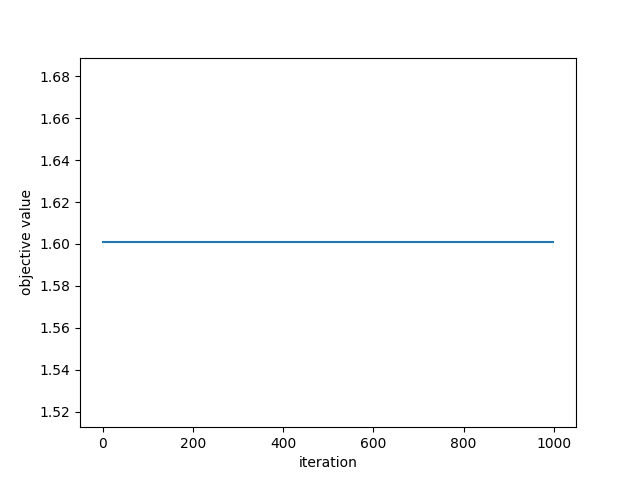
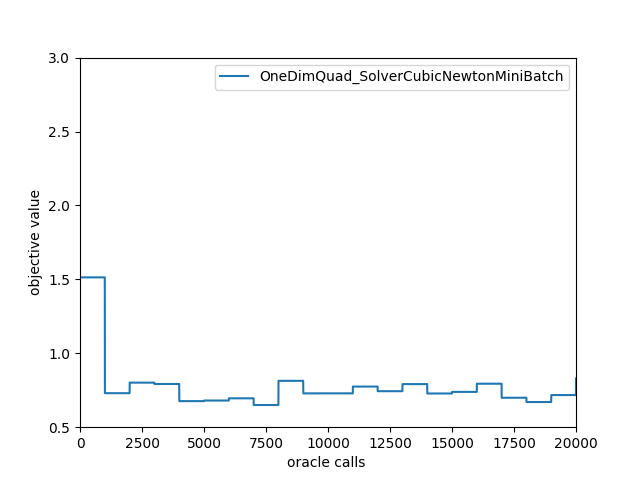
add experiments

diff --git a/optimization/TestMain.py b/optimization/TestMain.py
@@ -20,24 +20,39 @@ from optimization.solvers.SolverStorm import SolverStorm
 from optimization.solvers.SolverCubicNewtonMiniBatch import SolverCubicNewtonMiniBatch
 from optimization.solvers.SubProblemCubicNewton import SubProblemCubicNewton
 
+plot_names = []
+
+
+def plot_log(objective_values, plot_name):
+    if not cumulative:
+        plt.clf()
+    else:
+        plot_names.append(plot_name)
+
+    plt.plot(range(len(objective_values)),
+             objective_values)
+
+    plt.xlabel('oracle calls ')
+    plt.ylabel('objective value')
+    plt.ylim([low_bound_y, high_bound_y])
+    plt.xlim([low_bound_x, high_bound_x])
+    plt.legend([plot_name], loc='upper right')
+    if not cumulative:
+        plt.savefig("plots/" + plot_name)
+
 
 def test_01():
     print("running test 1...")
 
-    gd_solver = SubProblemCubicNewton(max_iter=1000, c_prime=0.0001)
+    gd_solver = SubProblemCubicNewton(max_iter=15, c_prime=1)
     oracle = MeanOracle(objective_function=OneDimQuad(), )
     ms = SolverCubicNewtonMiniBatch(sub_solver=gd_solver, oracle=oracle,
-                                    max_iter=2000, ro=0.0001, l=4, epsilon=1e-5, n1=1000, n2=1000)
-    thetas= ms.run(np.random.RandomState(seed=42).rand(1))
-    objective_values=oracle.objective_values
+                                    max_iter=2000, ro=0.1, l=2, epsilon=1e-4, n1=500, n2=500)
+    thetas = ms.run(np.random.RandomState(seed=42).rand(1))
     # plot the objective value list
-    plt.plot(range(len(objective_values)),
-             objective_values)
-    plt.xlabel('iteration')
-    plt.ylabel('objective value')
-    # plt.show()
-    plt.savefig("plots/OneDimQuad_SolverCubicNewtonMiniBatch")
-    print("best parameters",thetas ,'\n')
+    plot_log(oracle.objective_values, "OneDimQuad_SolverCubicNewtonMiniBatch")
+    print("best parameters", thetas, '\n')
+
 
 def test_02():
     print("running test 2...")
@@ -46,44 +61,26 @@ def test_02():
     oracle = MeanOracle(objective_function=ThreeDimQuad(), )
     ms = SolverCubicNewtonMiniBatch(sub_solver=gd_solver, oracle=oracle,
                                     max_iter=2000, ro=0.001, l=4, epsilon=1e-5, n1=10000, n2=10000)
-    objective_values=oracle.objective_values
+    objective_values = oracle.objective_values
 
-    print("best parameters", ms.run(np.random.RandomState(seed=42).rand(3)),'\n')
+    print("best parameters", ms.run(np.random.RandomState(seed=42).rand(3)), '\n')
 
 
 def test_03():
     print("running test 3...")
-    oracle = MeanOracle(objective_function=OneDimQuad(),)
-    ms = SolverSGD(oracle=oracle, max_iter=9000,  n1=1)
+    oracle = MeanOracle(objective_function=OneDimQuad(), )
+    ms = SolverSGD(oracle=oracle, max_iter=100000, n1=1)
     thetas = ms.run(np.random.RandomState(seed=45).rand(1))
-    objective_values=oracle.objective_values
-
-    # plot the objective value list
-    plt.clf()
-    plt.plot(1e-6 * np.array(range(len(objective_values[5:]))),
-             objective_values[5:])
-    plt.xlabel('oracle calls (1e6)')
-    plt.ylabel('objective value')
-    plt.legend(['Storm', ], loc='upper right')
-    plt.savefig("plots/OneDimQuad_SolverSGD")
+    plot_log(oracle.objective_values, "OneDimQuad_SolverSGD")
     print("best parameters", thetas, '\n')
 
 
 def test_04():
     print("running test 4...")
-    oracle = StormOracle(objective_function=OneDimQuad(), k=1e-2, c_factor=100,)
-    ms = SolverStorm(oracle=oracle, max_iter=9000, )
+    oracle = StormOracle(objective_function=OneDimQuad(), k=1e-1, c_factor=100, )
+    ms = SolverStorm(oracle=oracle, max_iter=100000, )
     thetas = ms.run(np.random.RandomState(seed=45).rand(1))
-    objective_values=oracle.objective_values
-
-    # plot the objective value list
-    plt.clf()
-    plt.plot(1e-6 * np.array(range(len(objective_values[5:]))),
-             objective_values[5:])
-    plt.xlabel('oracle calls (1e6)')
-    plt.ylabel('objective value')
-    # plt.legend(['Storm', ], loc='upper right')
-    plt.savefig("plots/OneDimQuad_SolverStorm")
+    plot_log(oracle.objective_values, "OneDimQuad_SolverStorm")
     print("best parameters", thetas, '\n')
 
 
@@ -91,62 +88,54 @@ def test_05():
     print("running test 5...")
 
     gd_solver = SubProblemCubicNewton(max_iter=10, c_prime=0.1)
-    oracle = NormalNoiseOracle(objective_function=WLooking(),)
+    oracle = NormalNoiseOracle(objective_function=WLooking(), )
     ms = SolverCubicNewtonMiniBatch(sub_solver=gd_solver, oracle=oracle,
-                                    max_iter=60000, ro=1, l=100, epsilon=1e-4,  n1=100, n2=100)
+                                    max_iter=60000, ro=1, l=100, epsilon=1e-4, n1=100, n2=100)
     thetas = ms.run(np.random.RandomState(seed=45).rand(2))
-    objective_values=oracle.objective_values
-
-    # plot the objective value list
-    plt.clf()
-    plt.plot(1e-4*np.array(range(len(objective_values)))[150:600],
-             objective_values[150:600])
-    plt.xlabel('oracle calls (1e6)')
-    plt.ylabel('objective value')
-    plt.legend(['Cubic',  ], loc='upper right')
-    plt.savefig("plots/WLooking_SolverCubicNewtonMiniBatch")
+    plot_log(oracle.objective_values, "WLooking_SolverCubicNewtonMiniBatch")
     print("best parameters", thetas, '\n')
+
 
 def test_06():
     print("running test 6...")
 
-    oracle = NormalNoiseOracle(objective_function=WLooking(), n1=100, n2=100)
-    ms = SolverSGD( oracle=oracle, max_iter=60000, lr=1e-3)
-    thetas= ms.run(np.random.RandomState(seed=45).rand(2))
-    objective_values=oracle.objective_values
+    oracle = NormalNoiseOracle(objective_function=WLooking(), )
+    ms = SolverSGD(oracle=oracle, max_iter=60000, lr=1e-3, n1=100, )
+    thetas = ms.run(np.random.RandomState(seed=45).rand(2))
+    objective_values = oracle.objective_values
 
     # plot the objective value list
-    plt.clf()
-    plt.plot(1e-4*np.array(range(len(objective_values)))[150:600],
-             objective_values[150:600])
-
-    plt.xlabel('oracle calls (1e6)')
-    plt.ylabel('objective value')
-    plt.legend(['SGD'], loc='upper right')
+    plot_log(oracle.objective_values, "WLooking_SolverSGD")
     plt.savefig("plots/WLooking_SolverSGD")
-    print("best parameters",thetas ,'\n')
+    print("best parameters", thetas, '\n')
 
 
 def test_07():
     print("running test 7...")
 
     oracle = MeanOracle(objective_function=OneDimQuad(), )
-    ms = GradientLeastSquares( oracle=oracle, j1=50, j2=50, l=0.1, alpha=0.70, max_iter=1000,)
-    thetas= ms.run(np.random.RandomState(seed=45).rand(1))
-    objective_values=oracle.objective_values
+    ms = GradientLeastSquares(oracle=oracle, j1=1, j2=1, l=1, alpha=0.50, max_iter=4000, )
+    thetas = ms.run(np.random.RandomState(seed=45).rand(1))
+    objective_values = oracle.objective_values
 
     # plot the objective value list
-    plt.clf()
-    plt.plot(1e-4*np.array(range(len(objective_values)))[150:600],
-             objective_values[150:600])
-
-    plt.xlabel('oracle calls (1e6)')
-    plt.ylabel('objective value')
-    plt.legend(['GradientLeastSquares'], loc='upper right')
-    plt.savefig("plots/OneDimQuad_GradientLeastSquares")
-    print("best parameters",thetas ,'\n')
+    plot_log(oracle.objective_values, "OneDimQuad_GradientLeastSquares")
+    print("best parameters", thetas, '\n')
 
 
-# test_05()
+cumulative = True
+high_bound_x = 5000
+high_bound_y = 3
+low_bound_x = -1
+low_bound_y = 0.5
+
+# test_01()
 test_03()
 test_04()
+# test_05()
+# test_06()
+test_07()
+
+if cumulative:
+    plt.legend(plot_names, loc='upper right')
+    plt.savefig("plots/" + '-'.join(plot_names))

diff --git a/optimization/test_modules.py b/optimization/test_modules.py
@@ -32,7 +32,7 @@ class WLooking(ObjectiveFunction):
             w_output = sqrt_e * (x[0] - (L + 1) * sqrt_e) ** 2 + 1 / 3 * (x[0] - (L + 1) * sqrt_e) ** 3 - 1 / 3 * (
                     3 * L + 1) * e ** 1.5
 
-        return np.array([w_output + 10 * x[1] ** 2]*z.shape[0])
+        return np.array([w_output + 10 * x[1] ** 2] * z.shape[0])
 
     def gradient(self, x, z):
         L = self.L
@@ -52,25 +52,24 @@ class WLooking(ObjectiveFunction):
         elif L * sqrt_e <= x[0]:
             w_output = 2 * sqrt_e * (x[0] - (L + 1) * sqrt_e) + (x[0] - (L + 1) * sqrt_e) ** 2
 
-        return np.tile([w_output , 20 * x[1]],(z.shape[0],1))
+        return np.tile([w_output, 20 * x[1]], (z.shape[0], 1))
 
     def hessian_vector(self, x, v, z, r):
         L = self.L
         e = self.e
         sqrt_e = e ** 0.5
         if x[0] <= -L * sqrt_e:
-            w_output = 2 * sqrt_e  - 2*(x[0] + (L + 1) * sqrt_e)
+            w_output = 2 * sqrt_e - 2 * (x[0] + (L + 1) * sqrt_e)
         elif -sqrt_e < x[0] <= 0:
-            w_output = -2 * sqrt_e  - 2*x[0]
+            w_output = -2 * sqrt_e - 2 * x[0]
         elif 0 < x[0] <= sqrt_e:
-            w_output = -2 * sqrt_e  + 2*x[0]
+            w_output = -2 * sqrt_e + 2 * x[0]
         elif L * sqrt_e <= x[0]:
-            w_output = 2 * sqrt_e  + 2*(x[0] - (L + 1) * sqrt_e)
+            w_output = 2 * sqrt_e + 2 * (x[0] - (L + 1) * sqrt_e)
         else:
-            w_output=0
-        hessian= np.tile([[w_output, 0],[0, 20]], (z.shape[0], 1, 1))
-        return np.matmul(hessian, v.reshape(2,1)).squeeze()
-
+            w_output = 0
+        hessian = np.tile([[w_output, 0], [0, 20]], (z.shape[0], 1, 1))
+        return np.matmul(hessian, v.reshape(2, 1)).squeeze()
 
 
 class OneDimQuad(ObjectiveFunction):
@@ -84,8 +83,8 @@ class OneDimQuad(ObjectiveFunction):
     def gradient(self, x, z):
         return np.expand_dims(2 * z[:, 0] * x + z[:, 1], axis=1)
 
-    def hessian_vector(self, x_t, v, z, r):
-        return np.matmul(np.expand_dims(2 * z[:, 0], axis=1), np.expand_dims(v, axis=1))
+    # def hessian_vector(self, x_t, v, z, r):
+    #     return np.matmul(np.expand_dims(2 * z[:, 0], axis=1), np.expand_dims(v, axis=1))
 
 
 class ThreeDimQuad(ObjectiveFunction):

diff --git a/optimization/utils/StochasticOracle.py b/optimization/utils/StochasticOracle.py
@@ -66,5 +66,5 @@ class StochasticOracle(ABC):
             raise ValueError('Please set oracle sample size n1 and n2!')
 
         self.s1, self.s2 = self.objective_function.get_samples(self.n1, self.n2)
-        tem_s1, _ = self.objective_function.get_samples(1000, 0)
-        self.objective_values += [self.objective_function.forward(x_t, tem_s1).mean(axis=0)] * self.n1
+        tem_s1, _ = self.objective_function.get_samples(2000, 0)
+        self.objective_values += [self.objective_function.forward(x_t, tem_s1).mean(axis=0)] * (self.n1+self.n2)
